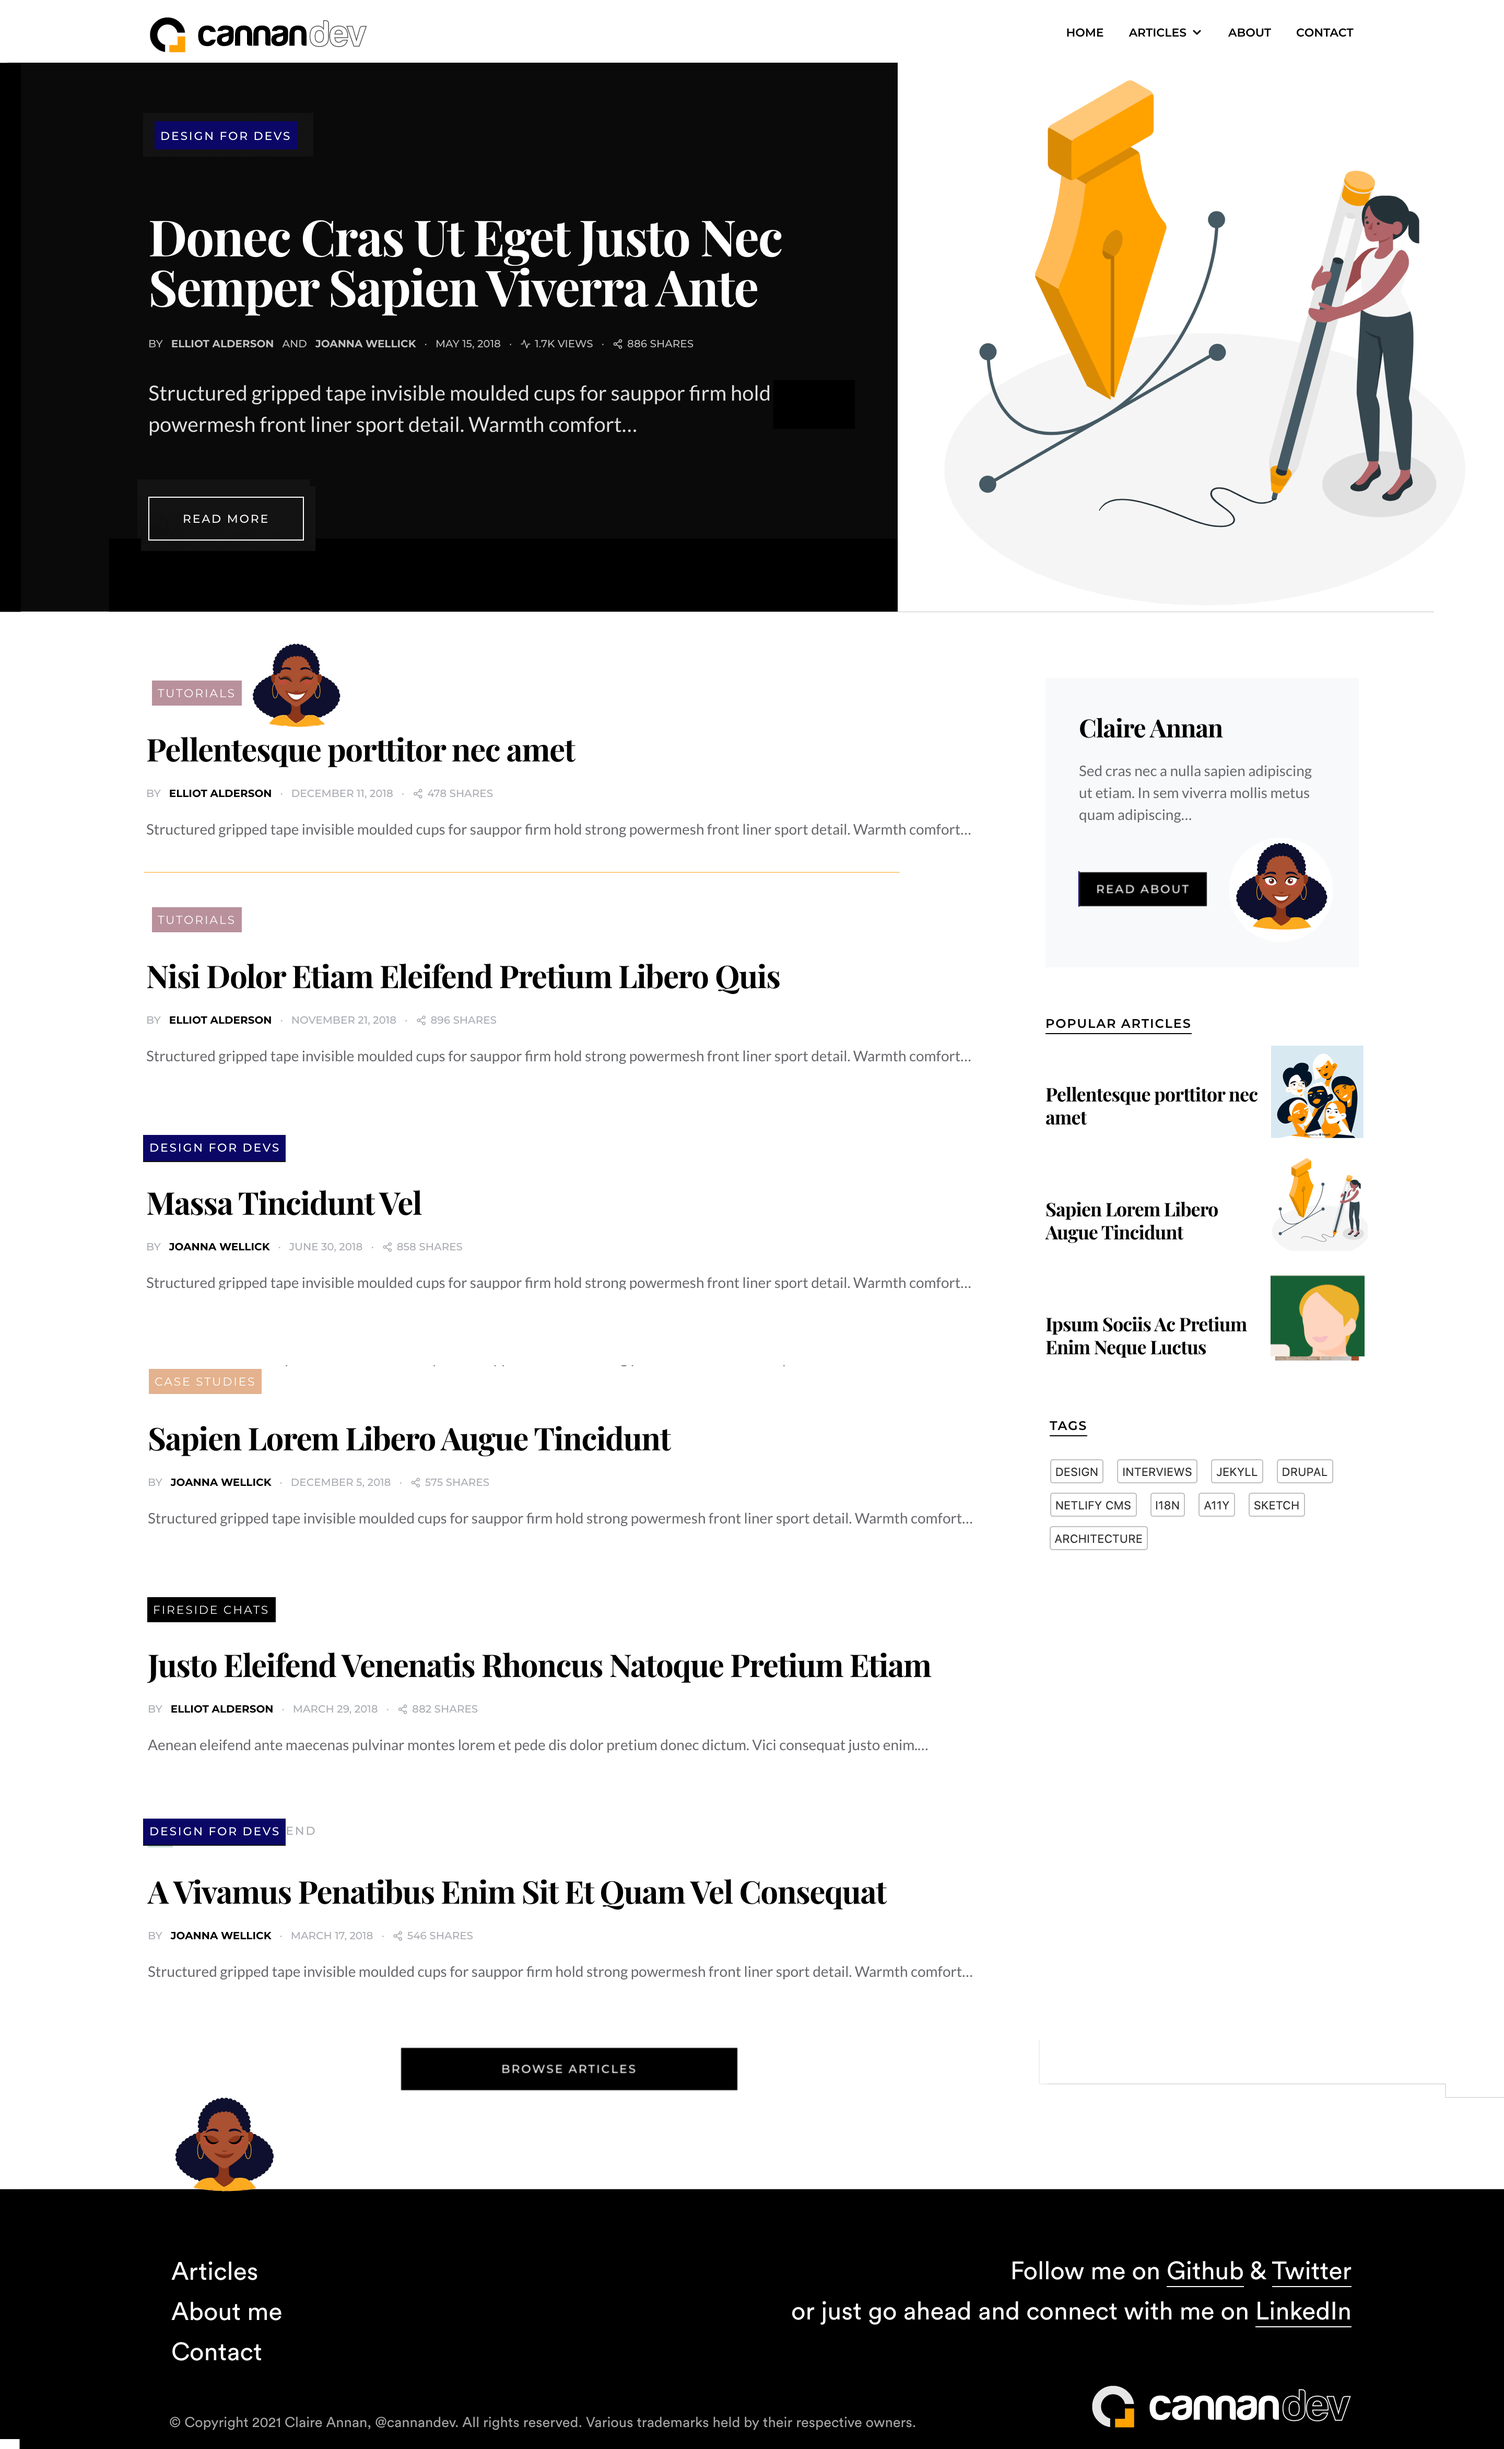
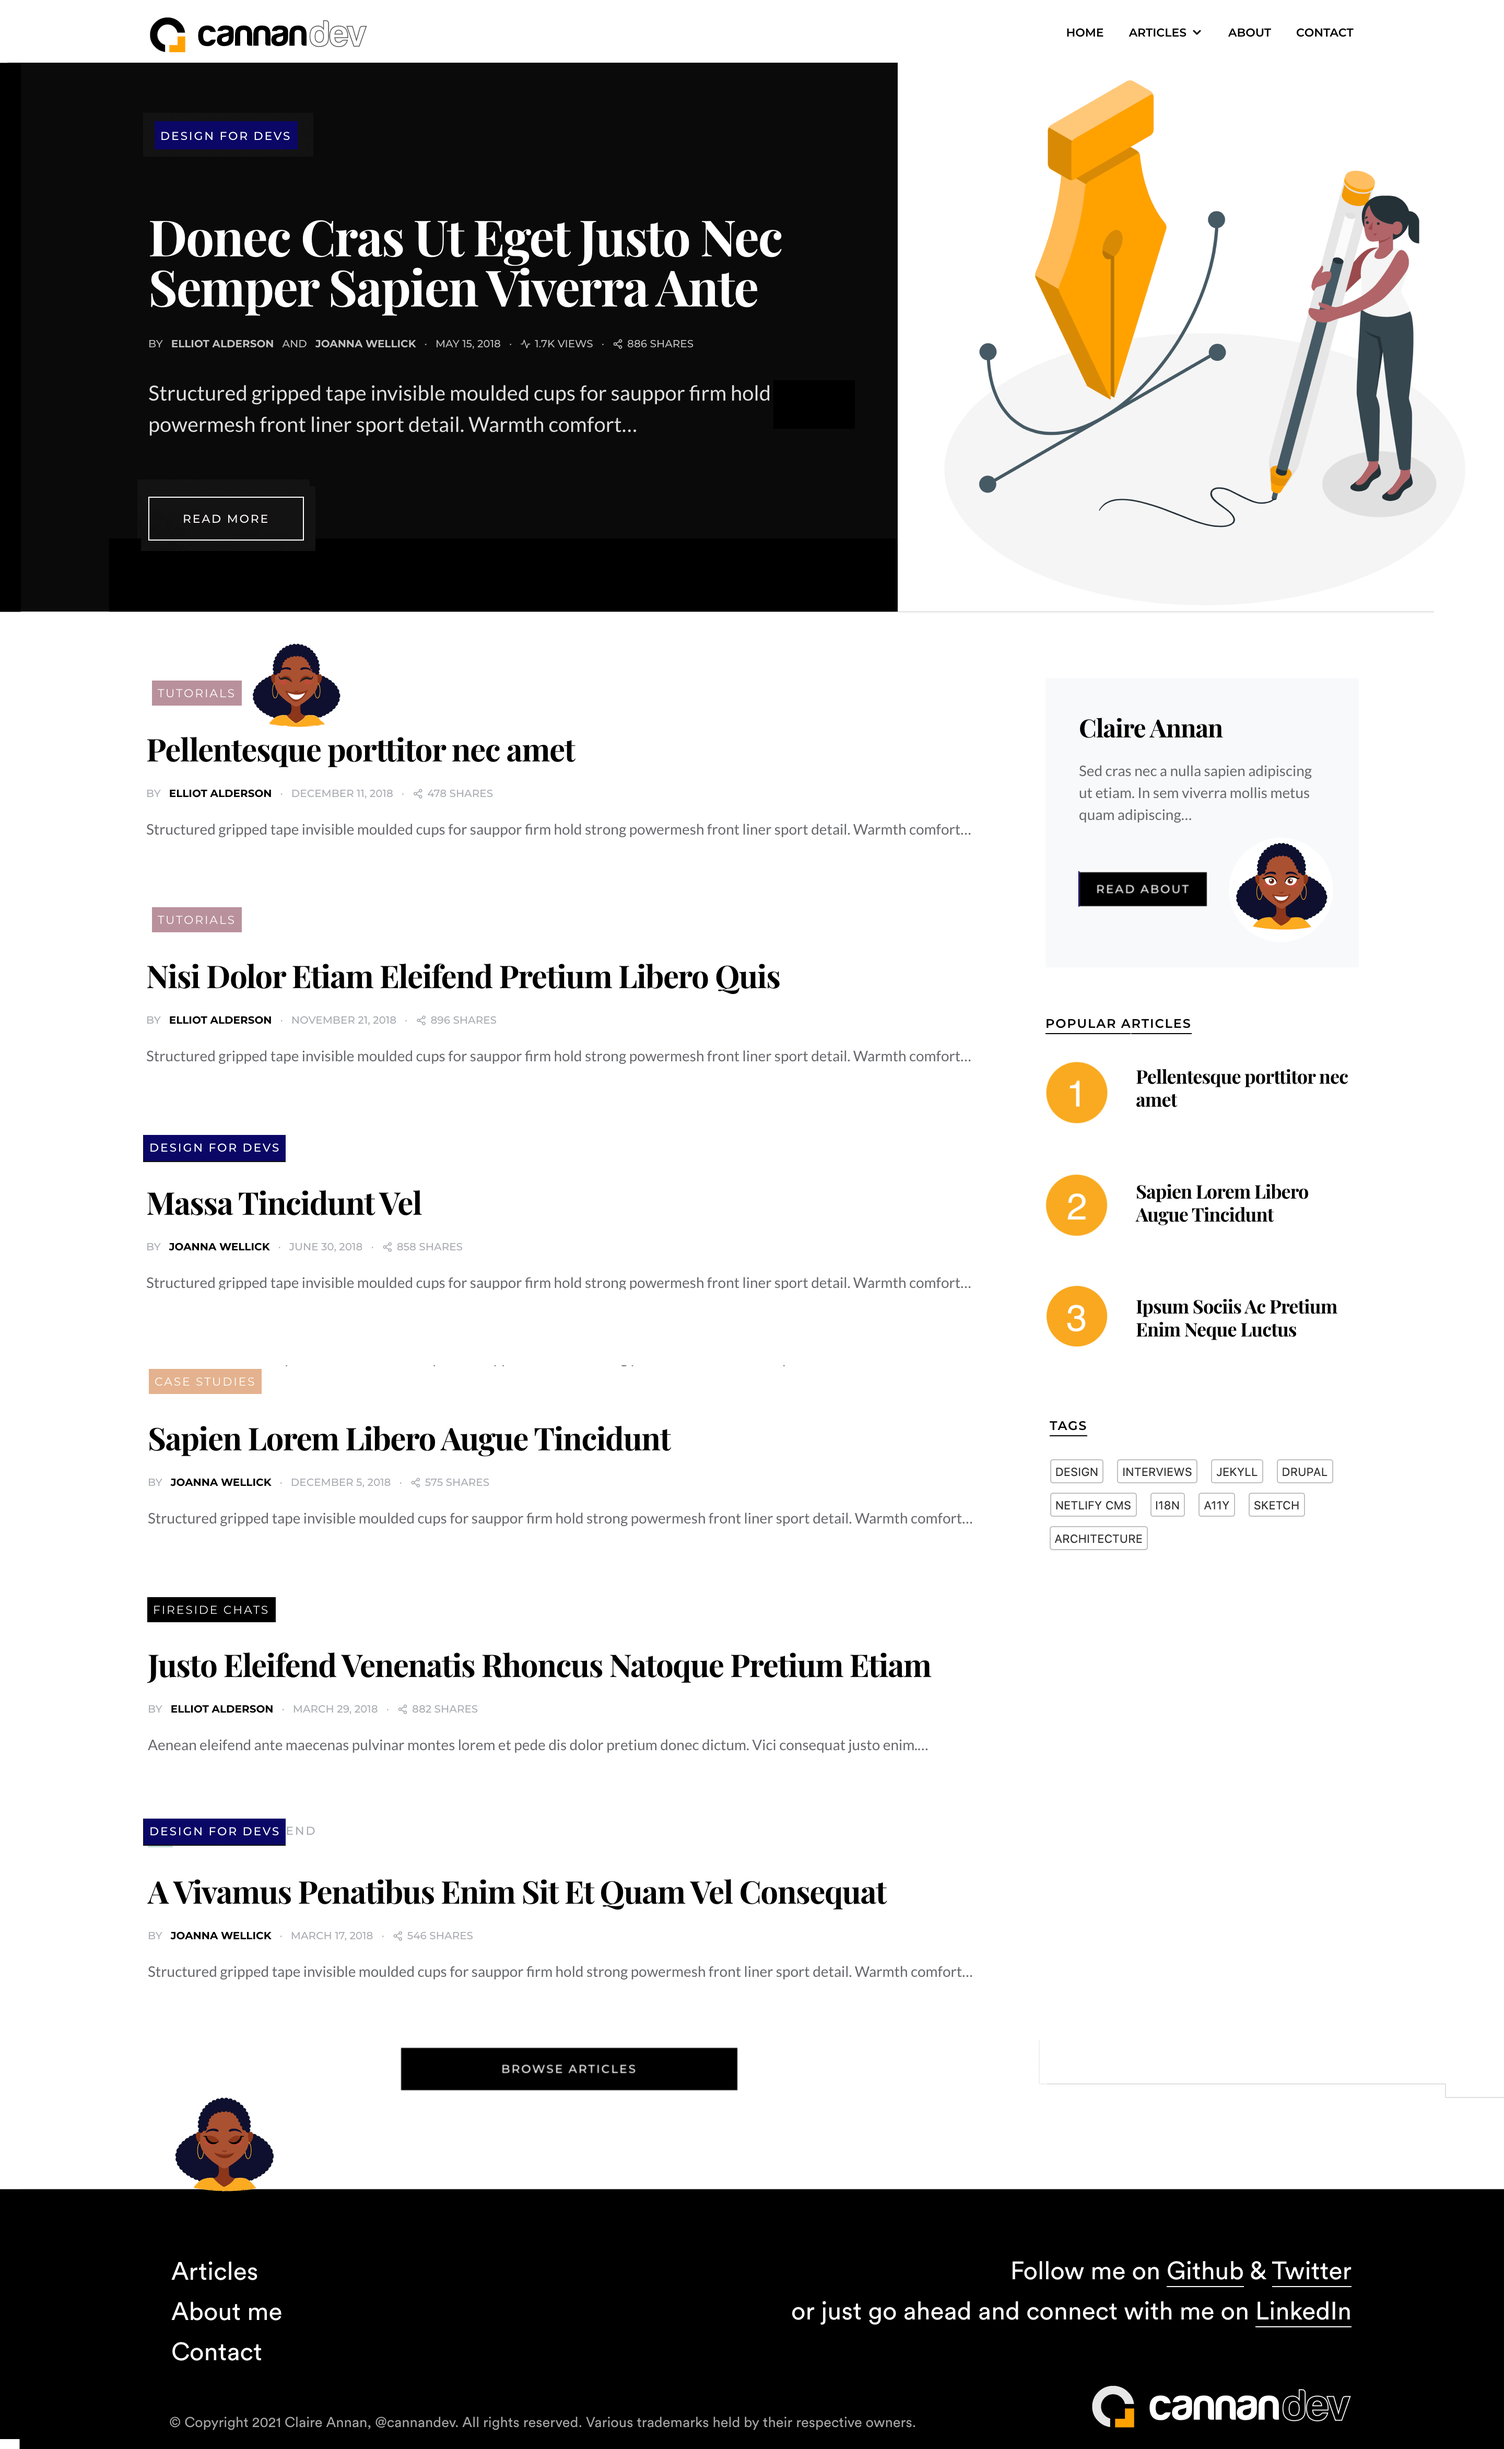
Implement responsive two column layout on homepage.

Changed region(s): [[0.6875, 0.4048, 0.9062, 0.5605]]

diff --git a/styles/tailwind.css b/styles/tailwind.css
@@ -12,4 +12,7 @@
   .btn {
     @apply uppercase border border-white bg-black text-white px-8 py-3 text-xs tracking-widest;
   }
+  .widget__title {
+    @apply text-xs font-medium text-gray-900 uppercase underline py-6 leading-loose;
+  }
 }
